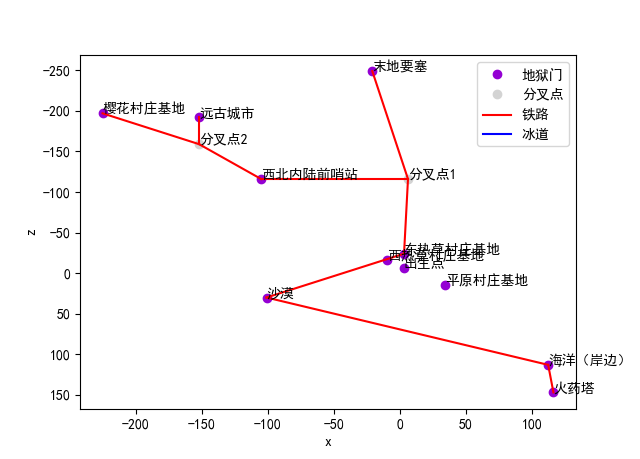
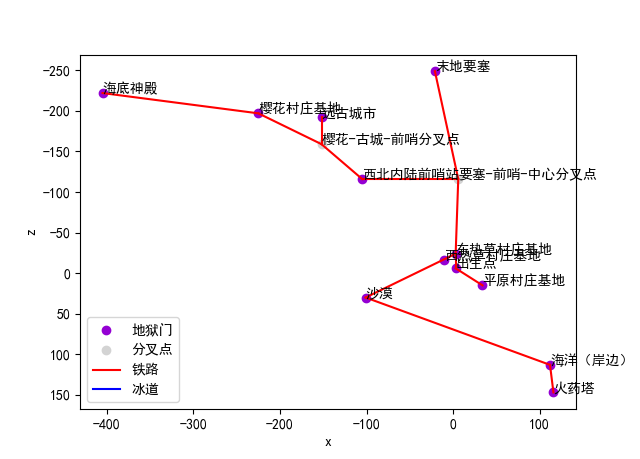
更新地狱交通 | 修复逗号缺失

diff --git a/信息公示.md b/信息公示.md
@@ -32,7 +32,7 @@
 - [ ] (440, 1032)
 - [ ] (2008, 376)
 - [ ] (2312, 712)
-- [x] *(1064 1368)
+- [x] *(1064, 1368)
 - [ ] (392, 1688)
 
 #### 远古城市
@@ -53,7 +53,7 @@
 
 #### 女巫小屋
 
-- (696 -1288)
+- (696, -1288)
 
 ### 群系
 
@@ -111,17 +111,18 @@
 | 樱花村庄基地  | (-1827, 124, -1588) | (-225, 75, -197) |
 | 海洋（岸边）  | (957, 64, 977)      | (112, 59, 113)   |
 | 火药塔     | (972, 63, 1116)     | (116, 46, 147)   |
+| 海底神殿    | (-3264, 63, -1792)  | (-405, 94, -222) |
 
 ### 线路
 
 以下均为铁路：
 
-- 东热草村庄基地 ---(6, 67, -116)===
+- 平原村庄基地 --- 出生点 --- 东热草村庄基地 ---(6, 67, -116)===
     - --- 末地要塞
     - --- 西北内陆前哨站
 - 西北内陆前哨站 ---(-152, 68, -159)===
     - --- 远古城市
-    - --- 樱花村庄基地
+    - --- 樱花村庄基地 --- 海底神殿
 - 东热草村庄基地 --- 沙漠 --- 海洋（岸边）--- 火药塔
 
 ### 图示
